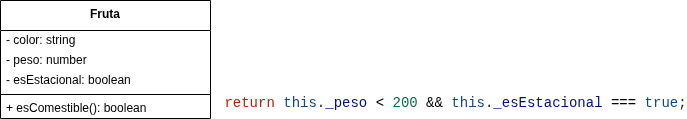
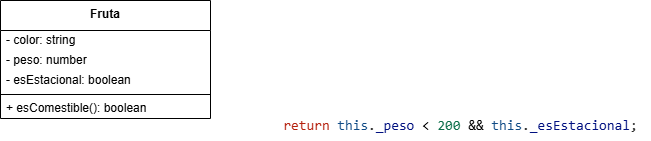
Fuerte avance de Ejercicios

diff --git a/src/Guia01/EJ06/Program.cs b/src/Guia01/EJ06/Program.cs
@@ -1,0 +1,59 @@
+/* Guia01\EJ06\Program.cs
+6. Crear una clase `Fruta` con variables privadas `color`, `peso`, `esEstacional`.
+    - Crear setters y getters.
+    - Escribir una función llamada `EsComestible()` que devuelva verdadero cuando la fruta pesa menos de 200 gr y es de estación, y falso en cualquier otro caso.
+    - Definir dos constructores de modo tal que la fruta pueda crearse con los valores `color`, `peso` y `estacional` al momento de instanciarse, o bien
+    crearse sin valores iniciales.
+*/
+public class Program
+{
+    public static void Main()
+    {
+        // A) Crear con valores
+        Fruta frutaA = new Fruta("Roja", 150, true);
+
+        Console.WriteLine(
+            $"Fruta A ---> {frutaA.GetColor()} {frutaA.GetPeso()} gramos. Estacional: {frutaA.GetEsEstacional()}"
+        );
+
+        // Esperado: True
+        Console.WriteLine($"Fruta A ---> es comestible? {frutaA.EsComestible()}");
+
+
+        // B) Crear sin valores y asignarlos posteriormente
+        Fruta frutaB = new Fruta();
+
+        frutaB.SetColor("Verde");
+        frutaB.SetPeso(220);
+        frutaB.SetEsEstacional(true);
+
+        Console.WriteLine(
+            $"Fruta B ---> {frutaB.GetColor()} {frutaB.GetPeso()} gramos. Estacional: {frutaB.GetEsEstacional()}"
+        );
+
+        // Esperado: False
+        Console.WriteLine($"Fruta B ---> es comestible? {frutaB.EsComestible()}");
+
+
+        // C) Crear con valores
+        Fruta frutaC = new Fruta("Verde", 201, true);
+
+        Console.WriteLine(
+            $"Fruta C ---> {frutaC.GetColor()} {frutaC.GetPeso()} gramos. Estacional: {frutaC.GetEsEstacional()}"
+        );
+
+        // Esperado: False
+        Console.WriteLine($"Fruta C ---> es comestible? {frutaC.EsComestible()}");
+
+
+        // D) Peso < 200 pero NO es estacional
+        Fruta frutaD = new Fruta("Amarilla", 150, false);
+
+        Console.WriteLine(
+            $"Fruta D ---> {frutaD.GetColor()} {frutaD.GetPeso()} gramos. Estacional: {frutaD.GetEsEstacional()}"
+        );
+
+        // Esperado: False
+        Console.WriteLine($"Fruta D ---> es comestible? {frutaD.EsComestible()}");
+    }
+}

diff --git a/src/Guia01/EJ06/Fruta.cs b/src/Guia01/EJ06/Fruta.cs
@@ -1,0 +1,66 @@
+// Fruta.ts
+public class Fruta
+{
+    // ATRIBUTOS PRIVADOS
+    private string _color;
+    private int _peso;
+    private bool _esEstacional;
+
+    // CONSTRUCTOR VACÍO
+    public Fruta()
+    {
+        this._color = "";
+        this._peso = 0;
+        this._esEstacional = false;
+    }
+
+    // CONSTRUCTOR CON PARÁMETROS
+    public Fruta(string color, int peso, bool esEstacional)
+    {
+        this._color = color;
+        this._peso = peso;
+        this._esEstacional = esEstacional;
+    }
+
+    // GETTERS Y SETTERS
+
+    // Color
+    public string GetColor()
+    {
+        return this._color;
+    }
+
+    public void SetColor(string color)
+    {
+        this._color = color;
+    }
+
+    // Peso
+    public int GetPeso()
+    {
+        return this._peso;
+    }
+
+    public void SetPeso(int peso)
+    {
+        this._peso = peso;
+    }
+
+    // EsEstacional
+    public bool GetEsEstacional()
+    {
+        return this._esEstacional;
+    }
+
+    public void SetEsEstacional(bool esEstacional)
+    {
+        this._esEstacional = esEstacional;
+    }
+
+    // REGLA DE NEGOCIO
+    // Es comestible si pesa menos de 200 gr y es de estación.
+    public bool EsComestible()
+    {
+        return this._peso < 200 && this._esEstacional;
+    }
+}

diff --git a/src/Guia01/EJ04/Program.cs b/src/Guia01/EJ04/Program.cs
@@ -1,4 +1,4 @@
-/* // Program.cs
+/* // Guia01\EJ04\Program.cs
 4. Crear una clase `Cine` que tenga los atributos privados `película` y `horario`:
     - Crear métodos públicos para la asignación y recuperación de valores.
     - Crear un método público `ObtenerCartelera()` que devuelva el nombre de la película y el horario.

diff --git a/src/Guia01/EJ03/Program.cs b/src/Guia01/EJ03/Program.cs
@@ -1,4 +1,4 @@
-/** /Program.cs
+/** Guia01\EJ03\Program.cs/
 3. Crear una clase `Articulo` que tenga los atributos **privados:** `marca` y `modelo`.
     - Crear métodos públicos para la asignación de valores.
     - Crear una instancia y asignarle valores.

diff --git a/src/Guia01/EJ02/Program.cs b/src/Guia01/EJ02/Program.cs
@@ -1,4 +1,4 @@
-/* /program.cs 
+/* Guia01\EJ02\Program.cs 
 2. Crear una clase `Vehiculo` que tenga los atributos:
 públicos:
     +`marca`,

diff --git a/src/Guia01/EJ01/Program.cs b/src/Guia01/EJ01/Program.cs
@@ -1,4 +1,5 @@
-using System;
+// Guia01\EJ01\Program.cs
+using System;
 
 public class Persona
 {

diff --git a/src/Guia01/EJ07/01EJ07.md b/src/Guia01/EJ07/01EJ07.md
@@ -1,0 +1,24 @@
+7. Crear una clase `Ninja` con las variables privadas `arteMarcial`, `arma`, `fuerza` (entero) y `salto` (entero).
+   - Crear setters y getters manualmente.
+   - Crear una función `Saltar()` que reciba un parámetro `multiplicador` (entero); imprimir por consola `salto` x parámetro.
+   - Crear la función `Ataque()` que imprima por consola el arma que usa el ninja y el arte marcial.
+   - Crear dos instancias de `Ninja`, asignar distintos valores para cada uno de los atributos e invocar las funciones `Saltar()` y `Ataque()`.
+
+---
+
+## Análisis:
+
+Crear una clase `Ninja` con las variables privadas:
+`arteMarcial`
+`arma`
+`fuerza` (entero)
+`salto` (entero).
+
+Crear setters y getters manualmente.
+
+Crear una función `Saltar()` que reciba un parámetro `multiplicador` (entero);
+imprimir por consola `salto` x parámetro.
+
+Crear la función `Ataque()` que imprima por consola el arma que usa el ninja y el arte marcial.
+
+Crear dos instancias de `Ninja`, asignar distintos valores para cada uno de los atributos e invocar las funciones `Saltar()` y `Ataque()`.

diff --git a/BreveGuiaDeProyecto.md b/BreveGuiaDeProyecto.md
@@ -284,9 +284,9 @@ Los tres pasos son:
 Para `EJ0X`:
 
 ```powershell
-dotnet new console --name 01EJ04 --output .\src\Guia01\EJ04 --framework net10.0 --force
-dotnet sln .\EjerciciosCSharpUtn2026.slnx add .\src\Guia01\EJ04\01EJ04.csproj
-dotnet run --project ".\src\Guia01\EJ04\01EJ04.csproj"
+dotnet new console --name 01EJ06 --output .\src\Guia01\EJ06 --framework net10.0 --force
+dotnet sln .\EjerciciosCSharpUtn2026.slnx add .\src\Guia01\EJ06\01EJ06.csproj
+dotnet run --project ".\src\Guia01\EJ06\01EJ06.csproj"
 ```
 
 Para `EJ05`, se cambia `04` por `05`, y así sucesivamente.
@@ -304,3 +304,13 @@ Para `EJ05`, se cambia `04` por `05`, y así sucesivamente.
 > Para cada ejercicio nuevo:
 >
 > `dotnet new console` → `dotnet sln add` → `dotnet run --project`
+
+---
+
+# Algunos comando útiles:
+
+```powershell
+dotnet sln .\EjerciciosCSharpUtn2026.slnx list
+dotnet sln .\EjerciciosCSharpUtn2026.slnx add .\src\Guia01\EJ06\01EJ06.csproj
+dotnet sln .\EjerciciosCSharpUtn2026.slnx list
+```

diff --git a/src/Guia01/EJ06/01EJ06.md b/src/Guia01/EJ06/01EJ06.md
@@ -1,0 +1,4 @@
+6. Crear una clase `Fruta` con variables privadas `color`, `peso`, `esEstacional`.
+   - Crear setters y getters.
+   - Escribir una función llamada `EsComestible()` que devuelva verdadero cuando la fruta pesa menos de 200 gr y es de estación, y falso en cualquier otro caso.
+   - Definir dos constructores de modo tal que la fruta pueda crearse con los valores `color`, `peso` y `estacional` al momento de instanciarse, o bien crearse sin valores iniciales.

diff --git a/src/Guia01/EJ05/01EJ05.md b/src/Guia01/EJ05/01EJ05.md
@@ -1,0 +1,9 @@
+5. Crear una clase `Cine` que tenga los atributos privados `película` y `horario`:
+   - Crear métodos públicos para la asignación y recuperación de valores.
+   - Crear un método público `ObtenerCartelera()` que devuelva el nombre de la película y el horario.
+   - Crear una instancia y asignarle valores.
+   - Mostrar por pantalla los valores.
+
+---
+
+# Esta realizado en el Ejercicio 04
